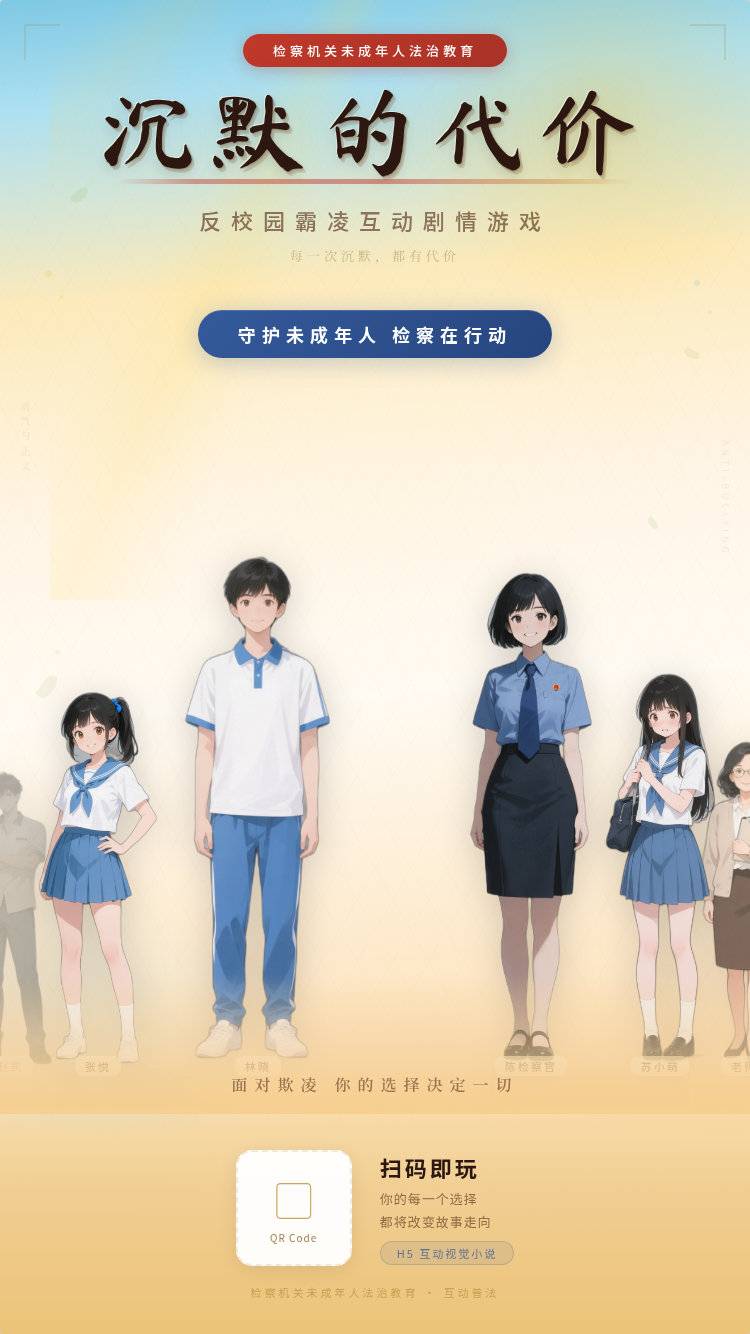
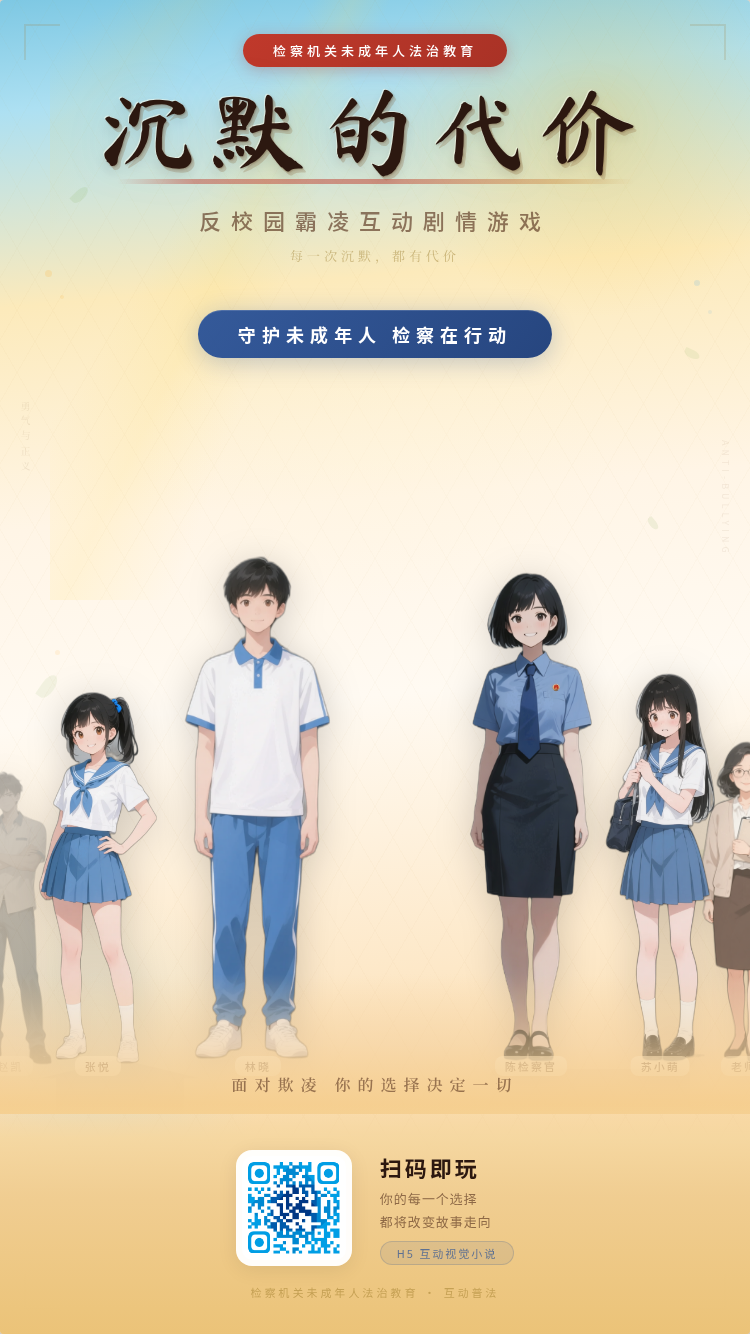
海报嵌入真实二维码,替换占位符

Changed region(s): [[0.3067, 0.8606, 0.46, 0.9528]]

diff --git a/poster.html b/poster.html
@@ -183,10 +183,9 @@ html,body{width:100%;height:100%;background:#e8ddd0;display:flex;justify-content
   background:rgba(255,255,255,.96);border-radius:16px;
   box-shadow:0 4px 20px rgba(0,0,0,.08);
   display:flex;flex-direction:column;align-items:center;justify-content:center;
-  flex-shrink:0;border:2px dashed rgba(160,110,40,.15);
+  flex-shrink:0;overflow:hidden;padding:6px;
 }
-.qr-box .qr-icon{font-size:38px;color:#C8A960;margin-bottom:4px}
-.qr-box .qr-label{font-size:10px;color:#A08050;letter-spacing:1px}
+.qr-box img{width:100%;height:100%;object-fit:contain;border-radius:10px}
 
 .qr-info{text-align:left}
 .qr-info .qi-title{font-size:22px;font-weight:700;color:#2C1810;letter-spacing:3px;margin-bottom:4px}
@@ -292,8 +291,7 @@ html,body{width:100%;height:100%;background:#e8ddd0;display:flex;justify-content
     <div class="qr-row">
       <!-- QR Code Placeholder -->
       <div class="qr-box">
-        <div class="qr-icon">&#9634;</div>
-        <div class="qr-label">QR Code</div>
+        <img src="qrcode_game.png" alt="扫码即玩">
       </div>
       <div class="qr-info">
         <div class="qi-title">扫码即玩</div>
